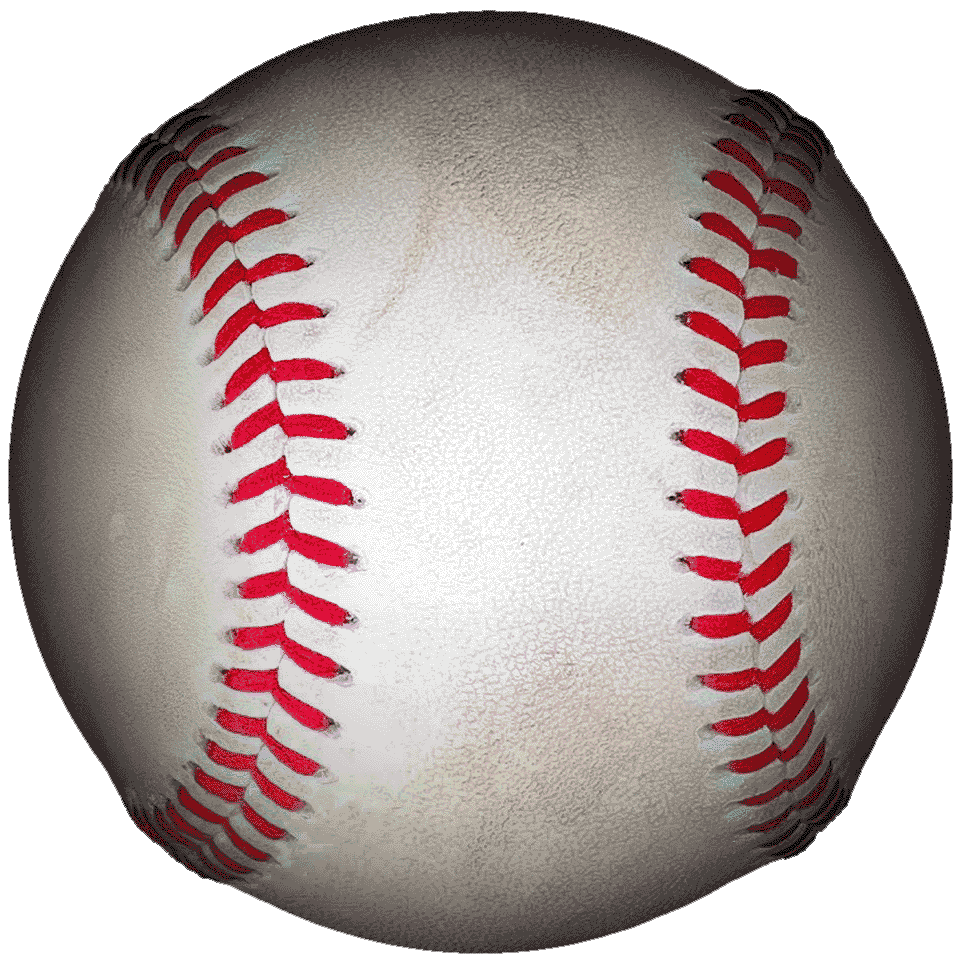
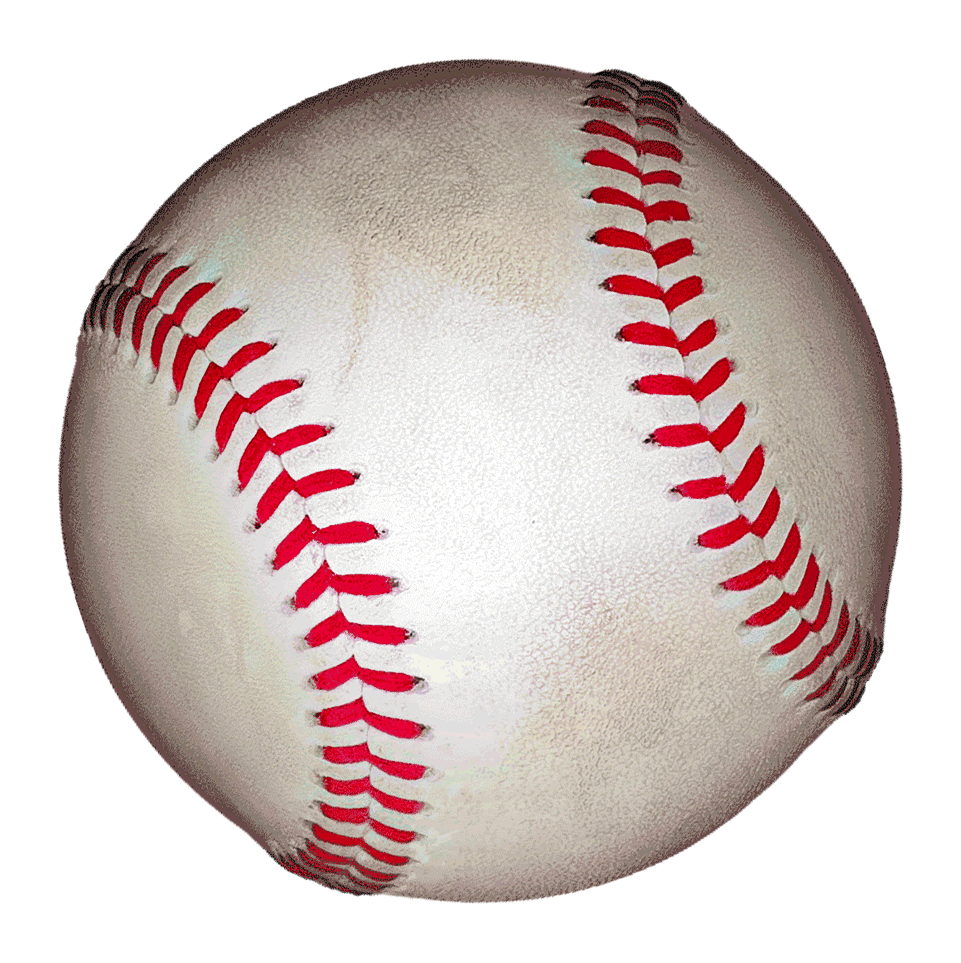
image file sizes change

diff --git a/web.css b/web.css
@@ -646,13 +646,13 @@ footer {
     }
 
     .image5 {
-        grid-column: 4; /* Place image 5 in the fourth column */
-        grid-row: 2;
+        grid-column: 3; /* Place image 5 in the fourth column */
+        grid-row: 3;
     }
 
     .image6 {
-        grid-column: 3; /* Place image 5 in the fourth column */
-        grid-row: 3;
+        grid-column: 4; /* Place image 5 in the fourth column */
+        grid-row: 2;
     }
 
     .wrapper img {

diff --git a/index.html b/index.html
@@ -45,7 +45,7 @@
          </div>
          <div class="wrapper image5">
             <a href="thesis.html">
-               <img src="./images/baseball2.png" alt="baseball">
+               <img src="./images/baseball.png" alt="baseball">
                <div class="image-title">Thesis</div>
             </a>
          </div>

diff --git a/thesis.html b/thesis.html
@@ -38,7 +38,7 @@
      </div> 
    </div>
    <div class="image-container">
-      <img src="./images/baseball2.png" alt="baseball" style="width: 100%;">
+      <img src="./images/baseball.png" alt="baseball" style="width: 100%;">
   </div>
 </div>
 
